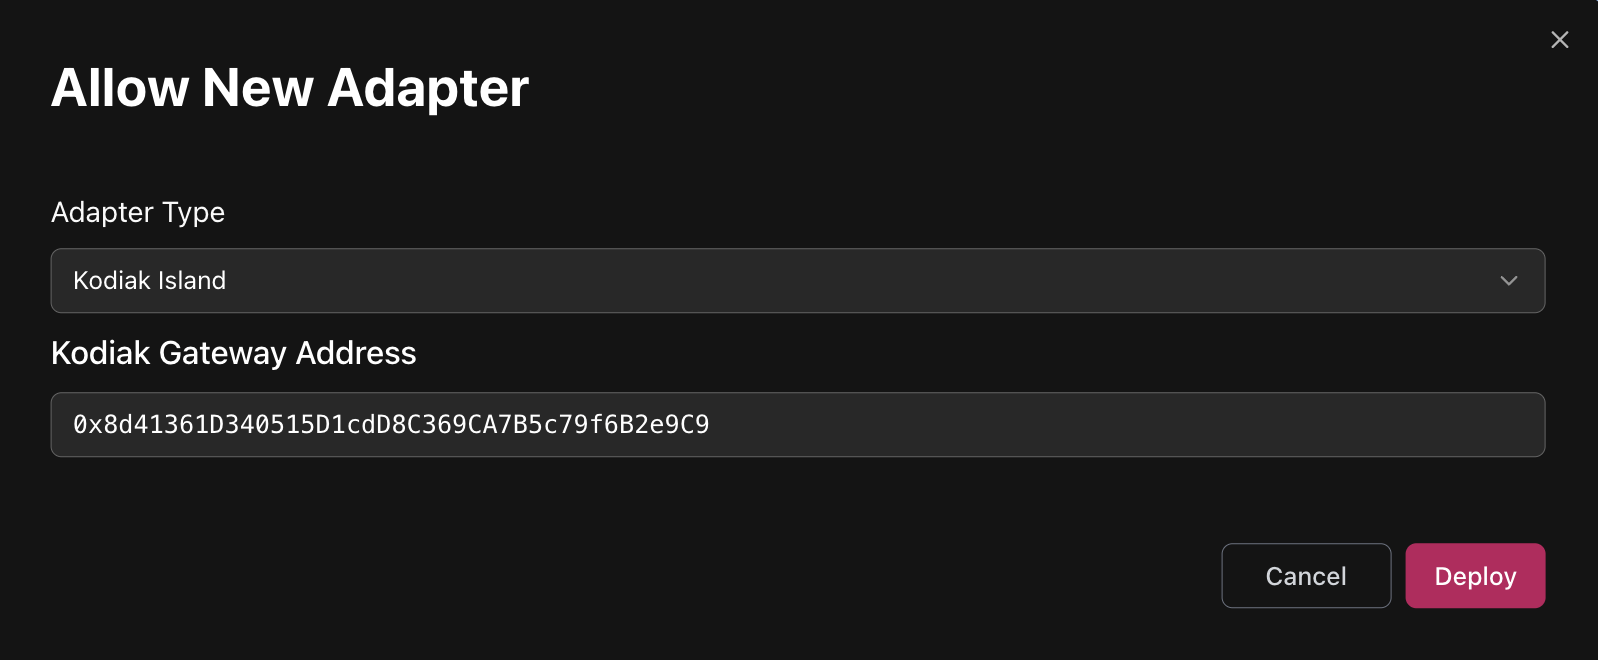
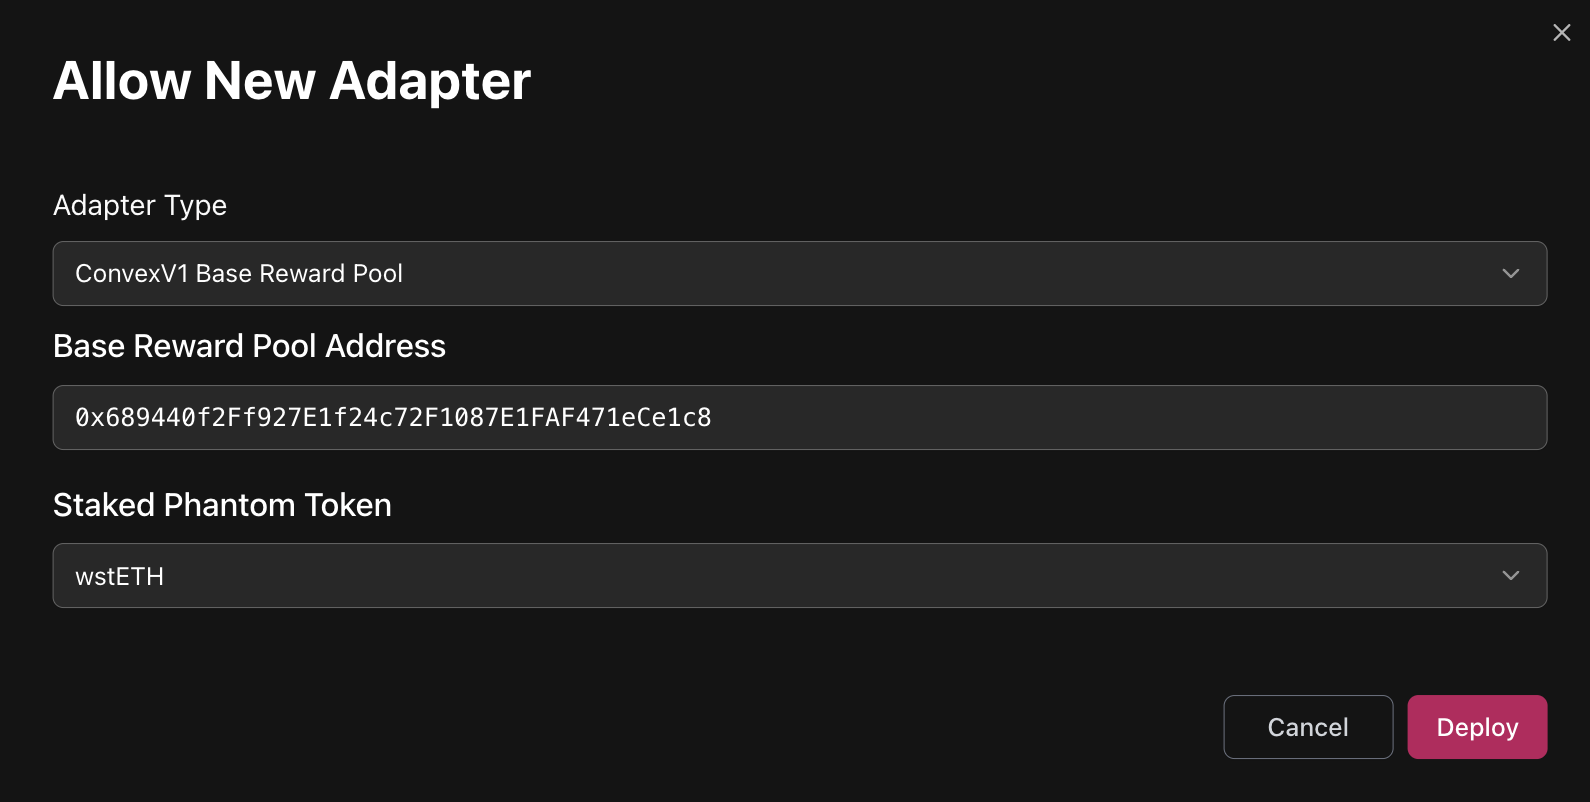
GITBOOK-55: Gearbox's Aug 11 changes

diff --git a/step-by-step-guides/configuring-adapters.md b/step-by-step-guides/configuring-adapters.md
@@ -54,6 +54,8 @@ All the source code and audit reports of the contracts can be found in [Bytecode
     * Uni V2 deployment addresses: [https://docs.uniswap.org/contracts/v2/reference/smart-contracts/v2-deployments](https://docs.uniswap.org/contracts/v2/reference/smart-contracts/v2-deployments)
     * Sushi V2 deployment addresses: [https://github.com/sushiswap/v2-core/tree/master/deployments](https://github.com/sushiswap/v2-core/tree/master/deployments)
 
+
+
 {% hint style="warning" %}
 Before allowing pools in adapter, please ensure that tokens from a pair are added as _**Assets to Market**_ and as _**Collaterals to Credit Manager**_.\
 \
@@ -101,6 +103,7 @@ If it's not, reach out to Gearbox contributors.
 * Custom SwapRouter deployments:
   * Uni V3
     * [BNB chain](https://bscscan.com/address/0xe7aC922b9751C7aca3A46D5505F36d5BbB1456b6#code)
+  * asd
   * Oku Trade
     * [Etherlink](https://explorer.etherlink.com/address/0x2afB54fcaECd41BE4Ecd05d7bd2e193F2F05B99d?tab=contract)
 
@@ -273,6 +276,10 @@ Before adding pool to adapter, please ensure that pool's input token and PT toke
 
     <figure><img src="../.gitbook/assets/Screenshot 2025-07-31 at 19.07.10.png" alt=""><figcaption></figcaption></figure>
 
+    <figure><img src="../.gitbook/assets/image (2).png" alt=""><figcaption></figcaption></figure>
+
+    <figure><img src="../.gitbook/assets/image.png" alt=""><figcaption></figcaption></figure>
+
     <figure><img src="../.gitbook/assets/Screenshot 2025-07-31 at 19.08.20 (1).png" alt=""><figcaption></figcaption></figure>
 * _**Input token:**_\
   Select a token that is in the "1 SY Equals To" row on the screenshot above ^
@@ -316,7 +323,7 @@ Search the name based on required tokens above.
 
 <summary><strong>ERC4626</strong></summary>
 
-<figure><img src="../.gitbook/assets/image.png" alt=""><figcaption></figcaption></figure>
+<figure><img src="../.gitbook/assets/image (4).png" alt=""><figcaption></figcaption></figure>
 
 Takes ERC4626 **Vault Address** as parameter. Target vault must be added as Asset to Market and as Collateral to Credit Manager.
 
@@ -343,7 +350,7 @@ e.g. sUSDe can be minted from USDe using ERC4626 deposit interface, but has time
 
 Takes Gateway Address as parameter. On Berachain it's 0x8d41361d340515d1cdd8c369ca7b5c79f6b2e9c9.
 
-<figure><img src="../.gitbook/assets/image (1).png" alt=""><figcaption></figcaption></figure>
+<figure><img src="../.gitbook/assets/image (1) (1).png" alt=""><figcaption></figcaption></figure>
 
 After adding adapter, click configure to whitelist particular Islands.
 
@@ -354,5 +361,59 @@ Before adding Island to adapter, please ensure that Island's tokens and Island i
 {% endhint %}
 
 <figure><img src="../.gitbook/assets/Screenshot 2025-08-06 at 23.21.42.png" alt=""><figcaption></figcaption></figure>
+
+</details>
+
+<details>
+
+<summary><strong>Convex-staked Curve LP</strong></summary>
+
+{% hint style="warning" %}
+Before adding and configuring Convex pool adapters, ensure that **Curve LP token**, **Convex Deposit Token**, **Staked Phantom Token**, **CRV** and **CVX** are added as collaterals to Market and Credit Manager (everything except **Staked Phantom Token** can have zero limit, LT and feed).\
+\
+\
+**Convex Deposit Token** can be found by its symbol. If the Curve LP token has symbol frxUSDUSDf, then Convex deposit token will have symbol cvxfrxUSDUSDf.
+
+
+
+**Staked Phantom Token** can be found by its symbol. If the Curve LP token has symbol frxUSDUSDf, then Convex deposit token will have symbol stkcvxfrxUSDUSDf.
+{% endhint %}
+
+**Add Convex Base Reward Pool adapter.**&#x20;
+
+<figure><img src="../.gitbook/assets/image (1).png" alt=""><figcaption></figcaption></figure>
+
+* _**Base Reward Pool Address:**_
+  *   Rewards contract address from Convex pool Info.
+
+      <figure><img src="../.gitbook/assets/Screenshot 2025-08-11 at 18.25.08.png" alt=""><figcaption></figcaption></figure>
+
+- _**Staked phantom token:**_
+  * **Staked Phantom Token** can be found by its symbol. If the Curve LP token has symbol frxUSDUSDf, then Convex deposit token will have symbol stkcvxfrxUSDUSDf.
+
+**Add Convex Booster adapter**
+
+{% hint style="success" %}
+If the Credit Manager already includes the Convex Booster adapter, skip it and proceed to the next step (Update Convex booster Pool IDs).
+{% endhint %}
+
+{% hint style="info" %}
+Booster address is single across all chains and is suggested as default option.
+{% endhint %}
+
+<figure><img src="../.gitbook/assets/image (3).png" alt=""><figcaption></figcaption></figure>
+
+**Update Convex booster Pool IDs**
+
+{% hint style="info" %}
+After each new Convex pool is added, Booster pool ids should be updated.
+{% endhint %}
+
+<figure><img src="../.gitbook/assets/Screenshot 2025-08-11 at 18.49.58.png" alt=""><figcaption></figcaption></figure>
+
+<figure><img src="../.gitbook/assets/Screenshot 2025-08-11 at 18.51.39.png" alt=""><figcaption></figcaption></figure>
+
+\
+
 
 </details>

diff --git a/step-by-step-guides/configuring-a-market.md b/step-by-step-guides/configuring-a-market.md
@@ -2,7 +2,7 @@
 
 ## Assets tab
 
-<figure><img src="../.gitbook/assets/image (2).png" alt=""><figcaption></figcaption></figure>
+<figure><img src="../.gitbook/assets/image (2) (1).png" alt=""><figcaption></figcaption></figure>
 
 {% stepper %}
 {% step %}
@@ -47,7 +47,7 @@ When user increases Quota (CA-specific max amount of debt that can be backed by 
 
 ## Rates tab
 
-<figure><img src="../.gitbook/assets/image (3).png" alt=""><figcaption></figcaption></figure>
+<figure><img src="../.gitbook/assets/image (3) (1).png" alt=""><figcaption></figcaption></figure>
 
 {% stepper %}
 {% step %}
